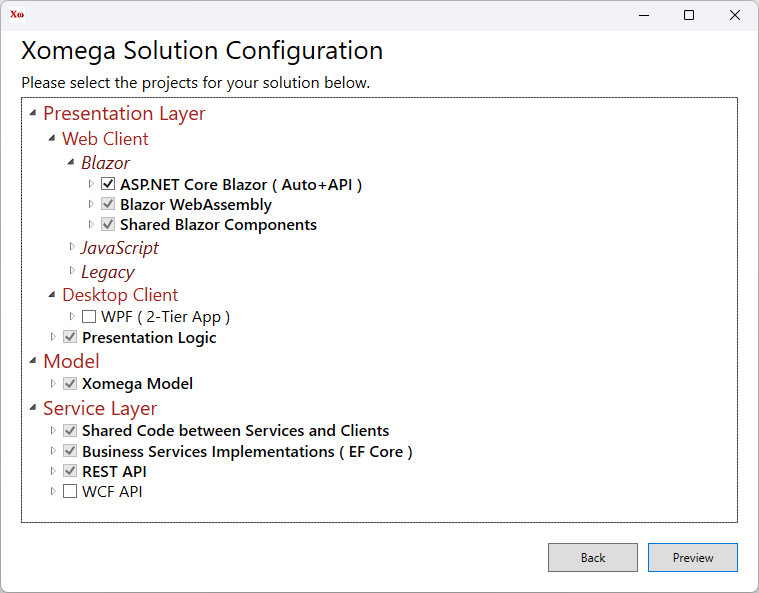
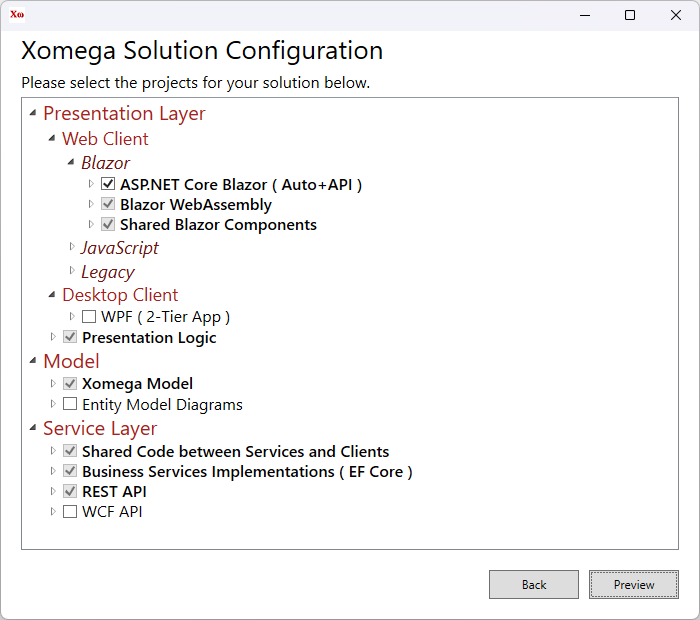
Updated docs for release 9.12.1.

diff --git a/docs/visual-studio/new-projects/solution-structure.md b/docs/visual-studio/new-projects/solution-structure.md
@@ -12,13 +12,17 @@ For example, if you specify *SolutionName* as the initial project name, pick all
 
 Let's review the default structure of each project in the Xomega solution.
 
-## Xomega model project
+## Model projects
 
-In the middle of the solution, between client and services projects, you'll find a special Xomega model project that ends with `.Model`.
+In the middle of the solution, between client and services projects, you'll find a couple of special projects for modeling the application.
 
 ### SolutionName.Model
 
-The model project combines `.xom` files that store Xomega model elements and configurations, as well as various generators that you can run on your model. We discuss the structure of the model project in the [next chapter](../model-project/project-structure).
+Xomega model project combines `.xom` files that store Xomega model elements and configurations, as well as various generators that you can run on your model. We discuss the structure of the model project in the [next chapter](../model-project/project-structure).
+
+### SolutionName.Model.Diagrams
+
+This project exists solely for the purpose of creating diagrams of your entity data model. The Entity Data Model (EDM) is generated from the Xomega domain model, so that you could use the entities you define to create visual diagrams that help you to better understand the structure of your domain model, which, in turn, helps you build your applications faster and more efficient.
 
 ## Shared project
 

diff --git a/docs/platform/releases/vs2022.md b/docs/platform/releases/vs2022.md
@@ -8,6 +8,25 @@ pagination_prev: null
 
 Below is a summary of the release notes for the *Xomega.Net for Visual Studio 2022* releases.
 
+## Version 9.12.1
+
+Release Date: 03/27/2024
+
+### New features
+- Added support for **Entity Model Diagrams** as a separate project in a new solution.
+- Updated [Entity Data Model generator](../../generators/data/edm) to clean up no longer valid entities and associations on the diagrams.
+
+### Minor changes
+- Added ability to [specify triggers](../../visual-studio/modeling/domain#object-configuration) under a `sql:table` config element in the model.
+- Updated [EF Domain Objects generator](../../generators/data/entities) to configure entity table with triggers.
+- Updated [Import from Database generator](../../generators/model/import) to import triggers from the database.
+
+### Bug fixes
+
+- Fixed [Import from Database generator](../../generators/model/import) to use generic types only (thus avoiding using the "user name" type as the base type).
+- Fixed template for the `Model` project to exclude type configs that are not relevant to the selected solution configuration.
+- Fixed project template for the `Client.Blazor.Wasm` project to use case-insensitive XML cache loader.
+
 ## Version 9.12.0
 
 Release Date: 02/29/2024

diff --git a/docs/visual-studio/modeling/domain.md b/docs/visual-studio/modeling/domain.md
@@ -256,6 +256,26 @@ The following example illustrates this configuration.
 </object>
 ```
 
+If your table has triggers, you can list them under the `sql:trigger` elements nested under the `sql:table` element as follows.
+
+```xml
+<object name="work order">
+  <fields>[...]
+  <config>
+    <sql:table name="Production.WorkOrder">
+<!-- highlight-start -->
+      <sql:trigger name="iWorkOrder"/>
+      <sql:trigger name="uWorkOrder"/>
+<!-- highlight-end -->
+    </sql:table>
+  </config>
+</object>
+```
+
+:::note
+The `sql:trigger` specification helps configure generated *EF Core* entities for certain querying behavior.
+:::
+
 Another configuration allows you to customize generated EF entities in a separate partial class by adding `edm:customize` element, as follows.
 
 ```xml

diff --git a/docs/visual-studio/new-projects/new-solutions.md b/docs/visual-studio/new-projects/new-solutions.md
@@ -88,6 +88,8 @@ Below is the full list of parameters that you can configure for different soluti
   - *Project* - the name of the project to use.
 - **Xomega Model** - project for modeling your domain and service models, from which application layers are generated.
   - *Project* - the name of the project to use.
+- **Entity Model Diagrams** - project for creating entity data model diagrams.
+  - *Project* - the name of the project to use.
 - **Shared Code between Services and Clients** - DTOs, service interfaces and other shared code.
   - *Project* - the name of the project to use.
   - *Use Async operations* - use asynchronous service operations. Synchronous operations should be used in very special legacy cases.

diff --git a/docs/tutorial/3-details/3-group-fields.md b/docs/tutorial/3-details/3-group-fields.md
@@ -302,7 +302,7 @@ The easiest way to do it is to set the `extend="true"` attribute on the `svc:cus
       <fields>[...]
       <operations>[...]
       <config>
-        <sql:table name="Sales.SalesOrderHeader"/>
+        <sql:table name="Sales.SalesOrderHeader">[...]
 <!-- highlight-next-line -->
         <svc:customize extend="true" preserve-on-clean="true"/>
       </config>

diff --git a/docs/tutorial/2-search/3-custom-result.md b/docs/tutorial/2-search/3-custom-result.md
@@ -70,7 +70,7 @@ For the service implementations, you can also configure that in the model in the
 
 ```xml title="sales_order.xom"
       <config>
-        <sql:table name="Sales.SalesOrderHeader"/>
+        <sql:table name="Sales.SalesOrderHeader">[...]
 <!-- added-next-line -->
         <svc:customize preserve-on-clean="true"/>
       </config>

diff --git a/docs/tutorial/3-details/10-context-selection.md b/docs/tutorial/3-details/10-context-selection.md
@@ -224,7 +224,7 @@ In order to make sure that your inline customizations are [preserved if you run 
 
 ```xml title="person.xom"
     <config>
-      <sql:table name="Person.Person"/>
+      <sql:table name="Person.Person">[...]
       <edm:customize extend="true"/>
 <!-- added-next-line -->
       <svc:customize preserve-on-clean="true"/>

diff --git a/docs/tutorial/3-details/7-related-fields.md b/docs/tutorial/3-details/7-related-fields.md
@@ -190,7 +190,7 @@ As we did before, we can simply set the `extend="true"` attribute on the `edm:cu
     <object name="person">
       <fields>[...]
       <config>
-        <sql:table name="Person.Person"/>
+        <sql:table name="Person.Person">[...]
 <!-- added-next-line -->
         <edm:customize extend="true"/>
       </config>
